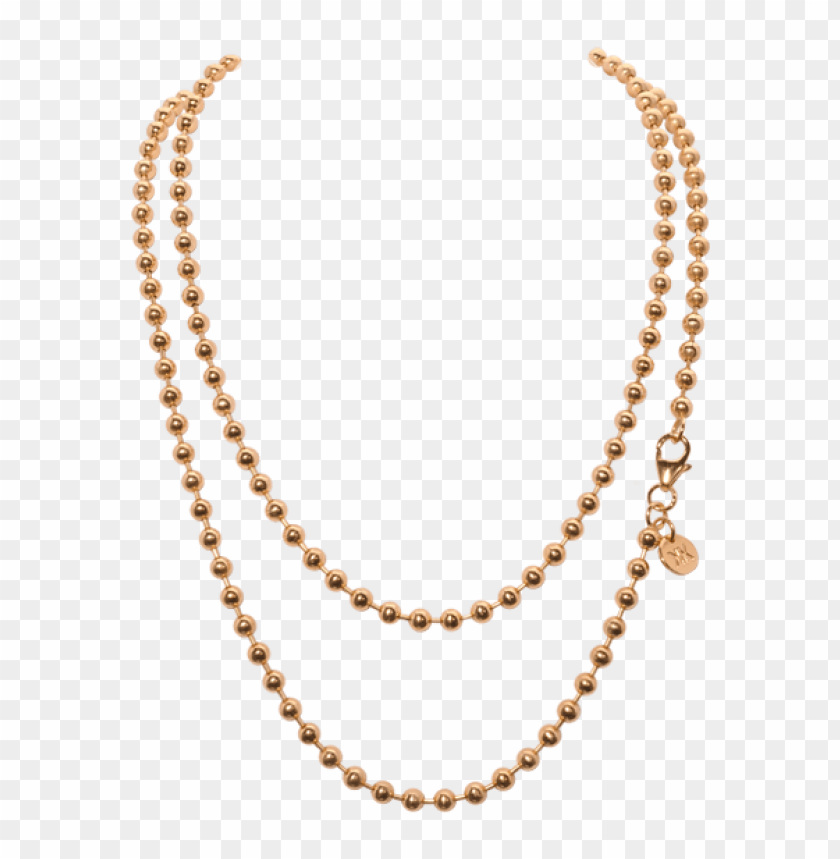
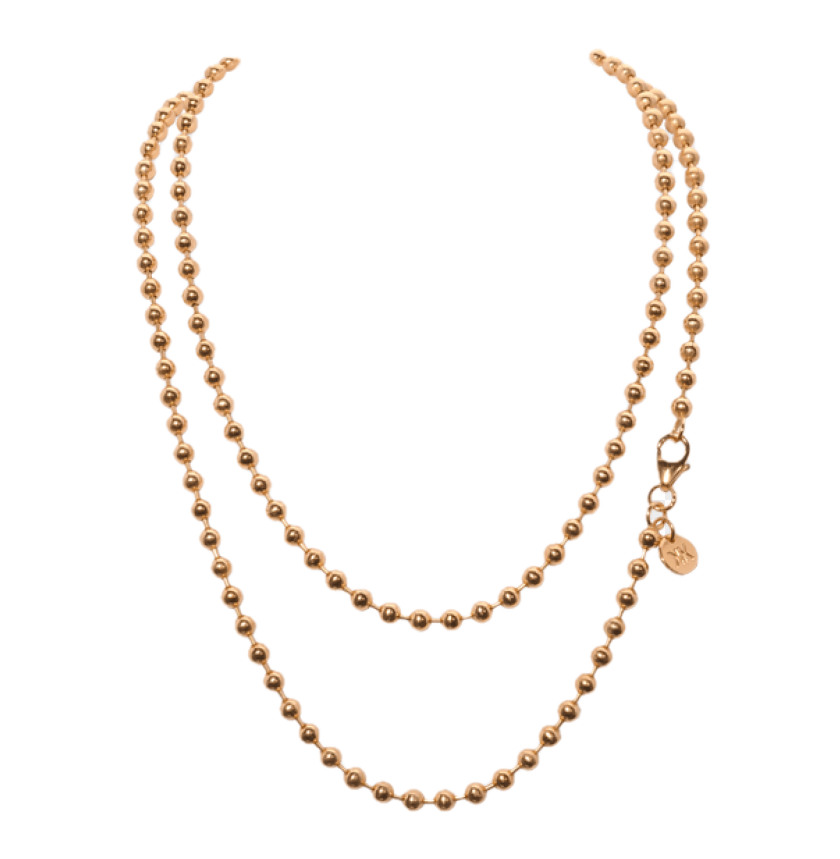
Removed backgrounds from most pictures.

diff --git a/client/src/images/rings/rings.js b/client/src/images/rings/rings.js
@@ -1,29 +1,29 @@
-import blackOpal from "../rings/black_opal.jpg";
-import twoGoldBand from "../rings/gold_band_set_of_2.jpg";
-import goldPeridot from "../rings/gold_bezel_peridot.jpg";
-import goldDiamondOpal from "../rings/gold_diamond_opal.jpg";
-import goldDiamondAlexandrite from "../rings/gold_diamonds_alexandrite.jpg";
-import goldHexagonAlexandrite from "../rings/gold_hexagon_alexandrite.jpg";
-import goldLeafRuby from "../rings/gold_leaf_ruby.jpg";
-import goldSapphireEmerald from "../rings/gold_sapphire_emerald.jpg";
-import goldRoundAlexandrite from "../rings/gold_round_alexandrite.jpg";
-import goldRuby from "../rings/gold_ruby.jpg";
-import roseGoldDiamondMossAgate from "../rings/kite_mossAgate2.jpg";
+import blackOpal from "../rings/black_opal.png";
+import twoGoldBand from "../rings/gold_band_set_of_2.png";
+import goldPeridot from "../rings/gold_bezel_peridot.png";
+import goldDiamondOpal from "../rings/gold_diamond_opal.png";
+import goldDiamondAlexandrite from "../rings/gold_diamonds_alexandrite.png";
+import goldHexagonAlexandrite from "../rings/gold_hexagon_alexandrite.png";
+import goldLeafRuby from "../rings/gold_leaf_ruby.png";
+import goldSapphireEmerald from "../rings/gold_sapphire_emerald.jpeg";
+import goldRoundAlexandrite from "../rings/gold_round_alexandrite.png";
+import goldRuby from "../rings/gold_ruby.png";
+import roseGoldDiamondMossAgate from "../rings/kite_mossAgate2.png";
 import roseGoldKiteMossAgate from "../rings/rose_gold_kite_mossAgate.png";
-import sterlingAustrailianOpal from "../rings/sterling_australian_opal.jpg";
-import twoSterlingBands from "../rings/sterling_band_set_of_2.jpg";
-import sterlingDiamond from "../rings/sterling_diamond.jpg";
-import sterlingDiamondSapphire from "../rings/sterling_diamond&_sapphire_band.jpg";
-import sterlingFlowerDiamond from "../rings/sterling_flower_diamond.jpg";
-import sterlingMossAgate from "../rings/sterling_mossAgate.jpg";
-import sterlingDiamondSapphireInlay from "../rings/sterling_saphire&_diamond_inlay.jpg";
-import sterlingStarDiamond from "../rings/sterling_star_diamond.jpg";
-import sterlingWaveEngraving from "../rings/sterling_wave_engraving.jpg";
-import turtleSetOfTwo from "../rings/turtle_set_of_2.jpg";
-import whiteGoldDiamondRuby3P from "../rings/white_gold_3piece_diamond&_ruby.jpg";
-import whiteGoldDiamondTealGreenSapphire from "../rings/white_gold_diamond_tealGreen_sapphire.jpg";
-import whiteGoldFireOpal from "../rings/white_gold_fire_opal.jpg";
-import whiteGoldProngEmerald from "../rings/white_gold_prong_emerald.jpg";
+import sterlingAustrailianOpal from "../rings/sterling_australian_opal.jpeg";
+import twoSterlingBands from "../rings/sterling_band_set_of_2.png";
+import sterlingDiamond from "../rings/sterling_diamond.png";
+import sterlingDiamondSapphire from "../rings/sterling_diamond&_sapphire_band.png";
+import sterlingFlowerDiamond from "../rings/sterling_flower_diamond.png";
+import sterlingMossAgate from "../rings/sterling_mossAgate.png";
+import sterlingDiamondSapphireInlay from "../rings/sterling_saphire&_diamond_inlay.jpeg";
+import sterlingStarDiamond from "../rings/sterling_star_diamond.png";
+import sterlingWaveEngraving from "../rings/sterling_wave_engraving.jpeg";
+import turtleSetOfTwo from "../rings/turtle_set_of_2.png";
+import whiteGoldDiamondRuby3P from "../rings/white_gold_3piece_diamond&_ruby.png";
+import whiteGoldDiamondTealGreenSapphire from "../rings/white_gold_diamond_tealGreen_sapphire.png";
+import whiteGoldFireOpal from "../rings/white_gold_fire_opal.png";
+import whiteGoldProngEmerald from "../rings/white_gold_prong_emerald.png";
 
 const ring_images = [
   whiteGoldProngEmerald,

diff --git a/client/src/images/necklaces/necklaces.js b/client/src/images/necklaces/necklaces.js
@@ -1,28 +1,28 @@
-import amythystPendant from '../necklaces/amethyst_pendant.jpg'
-import blackOpalDiamond from '../necklaces/opal_diamond.jpg'
-import diamond from '../necklaces/diamond.jpg'
+import amythystPendant from '../necklaces/amethyst_pendant.png'
+import blackOpalDiamond from '../necklaces/opal_diamond.png'
+import diamond from '../necklaces/diamond.png'
 import emeraldDiamondTeardrop from '../necklaces/emerald_diamond_teardrop.png'
-import emeraldCubePendant from '../necklaces/emrald_cube_pendant.jpg'
-import gemstones from '../necklaces/gemstones.jpg'
-import goldStack from '../necklaces/gold_3_stack.jpg'
-import goldAustralianOpal from '../necklaces/gold_australian_opal_iShape.jpg'
+import emeraldCubePendant from '../necklaces/emrald_cube_pendant.png'
+import gemstones from '../necklaces/gemstones.png'
+import goldStack from '../necklaces/gold_3_stack.png'
+import goldAustralianOpal from '../necklaces/gold_australian_opal_iShape.png'
 import goldBeaded from '../necklaces/gold_beaded.png'
-import goldAmethystRaw from '../necklaces/gold_chain_amethyst_raw.jpg'
-import goldDiamondRing from '../necklaces/gold_chain_gold_ring.jpg'
-import goldEmeraldTeardrop from '../necklaces/gold_emerald_teardrop.jpg'
-import goldFlower from '../necklaces/gold_flower.jpg'
-import goldRoundPendant from '../necklaces/gold_round_pendant.jpg'
-import goldNecklace from '../necklaces/gold-necklace.jpg'
+import goldAmethystRaw from '../necklaces/gold_chain_amethyst_raw.png'
+import goldDiamondRing from '../necklaces/gold_chain_gold_ring.png'
+import goldEmeraldTeardrop from '../necklaces/gold_emerald_teardrop.png'
+import goldFlower from '../necklaces/gold_flower.png'
+import goldRoundPendant from '../necklaces/gold_round_pendant.png'
+import goldNecklace from '../necklaces/gold-necklace.png'
 import pearlStack from '../necklaces/pearl_3_stack.jpg'
 import roseQuartzCrystal2 from '../necklaces/rose_quartz_crystal_2.png'
-import roseQuartzCrystal from '../necklaces/rose_quartz_crystal.jpg'
-import rubyBeadsPendantRaw from '../necklaces/ruby_beads_pendant_raw.jpg'
-import rubyDiamondTeardop from '../necklaces/ruby_diamond_teardrop.jpg'
-import rubyFlower from '../necklaces/ruby_flower.jpg'
-import smokeyQuartzCrystal from '../necklaces/smokey_quartz_crystal.jpg'
-import sterlingAmethyst from '../necklaces/sterling_amethyst.jpg'
-import whiteGoldDiamondYshape from '../necklaces/white_gold_diamond_Yshape.jpg'
-import whiteGoldDiamond from '../necklaces/white_gold_diamond.jpg'
+import roseQuartzCrystal from '../necklaces/rose_quartz_crystal.png'
+import rubyBeadsPendantRaw from '../necklaces/ruby_beads_pendant_raw.png'
+import rubyDiamondTeardop from '../necklaces/ruby_diamond_teardrop.png'
+import rubyFlower from '../necklaces/ruby_flower.png'
+import smokeyQuartzCrystal from '../necklaces/smokey_quartz_crystal.png'
+import sterlingAmethyst from '../necklaces/sterling_amethyst.png'
+import whiteGoldDiamondYshape from '../necklaces/white_gold_diamond_Yshape.png'
+import whiteGoldDiamond from '../necklaces/white_gold_diamond.png'
 
 const necklace_images = [
     amythystPendant,
